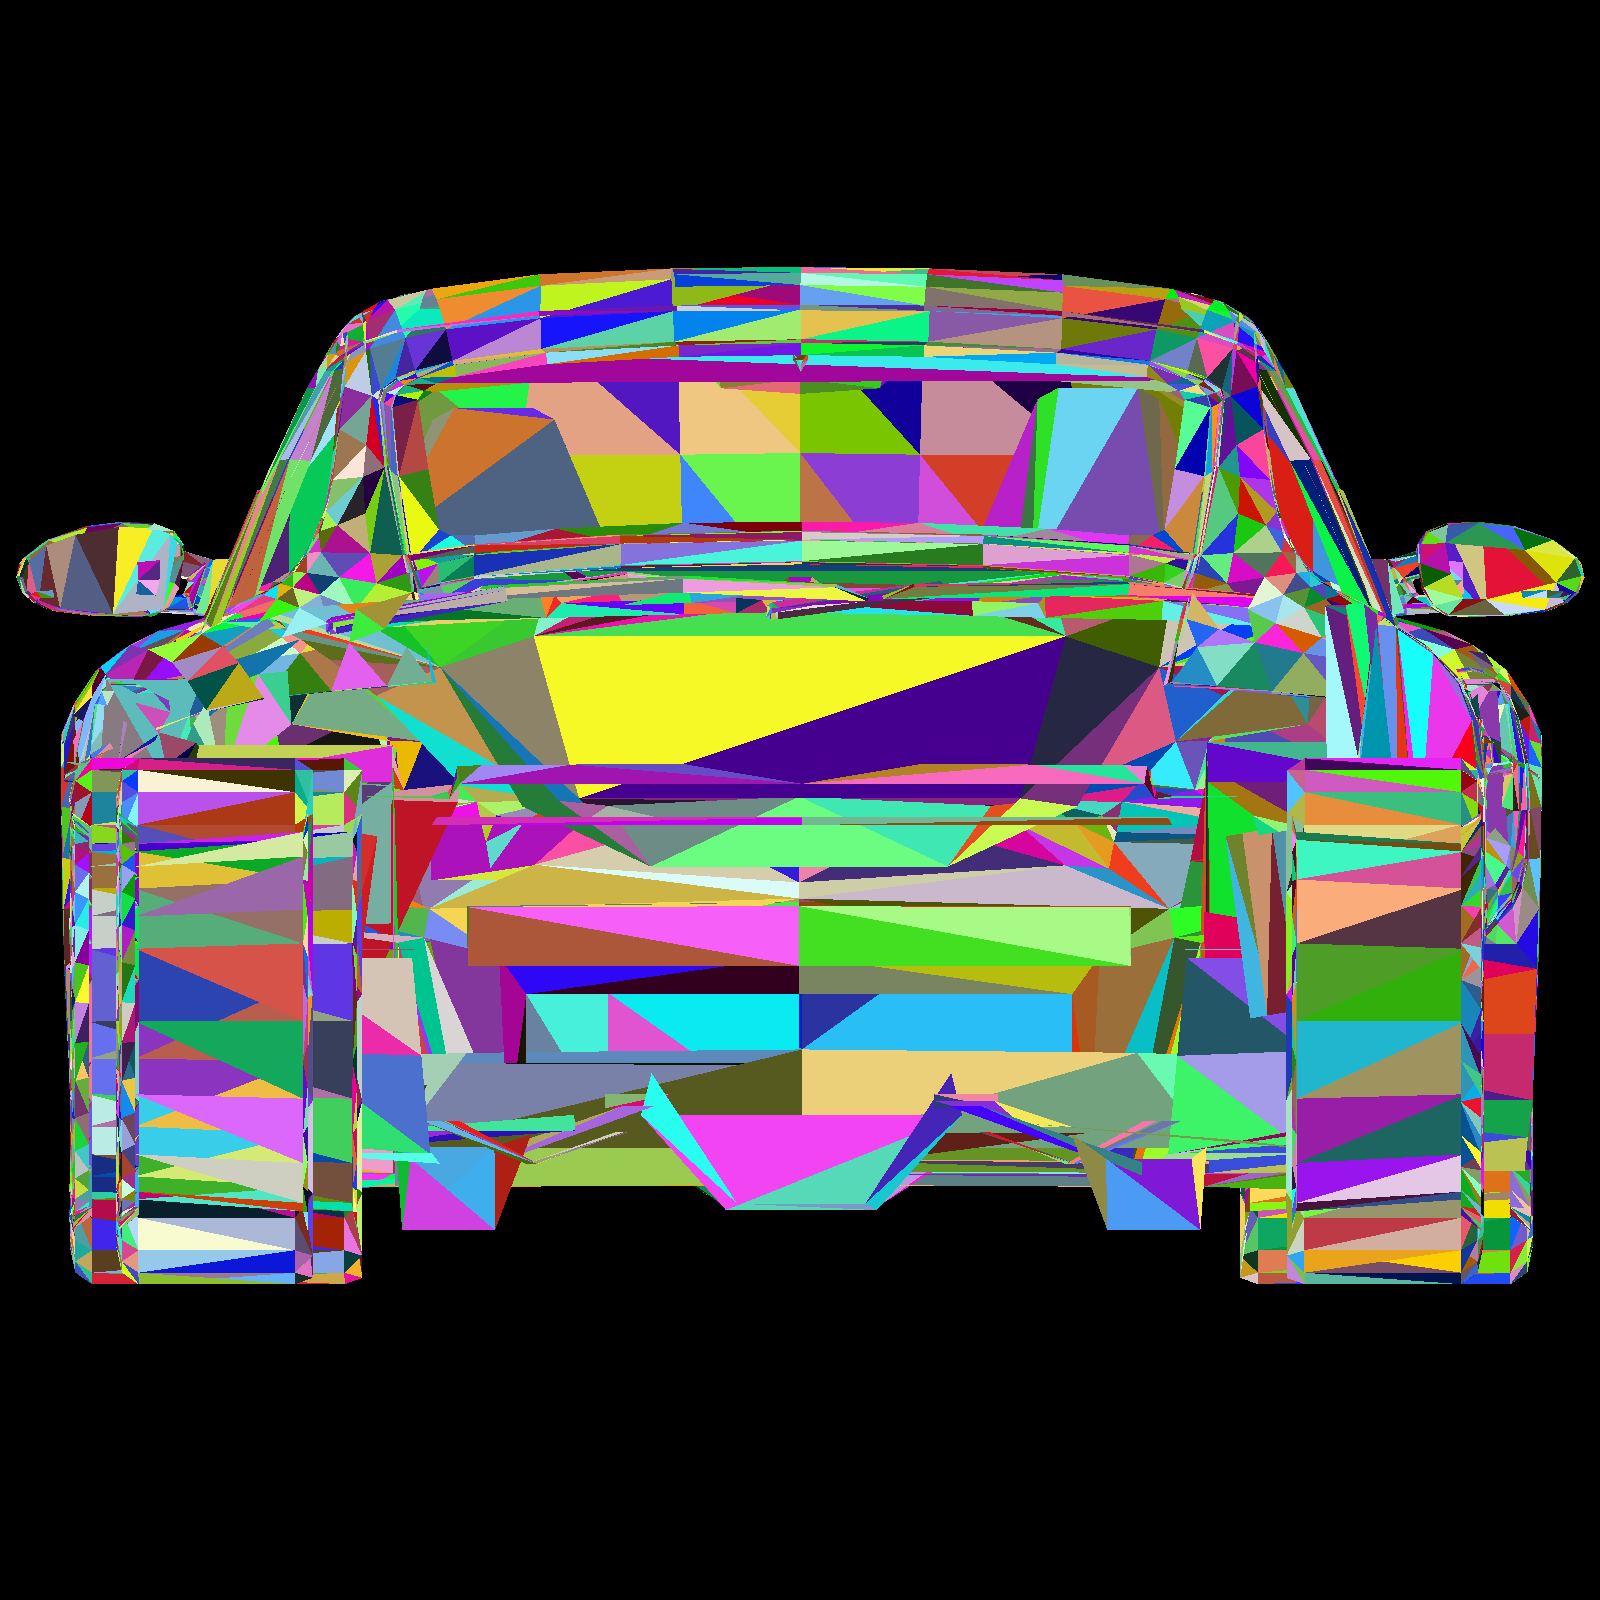
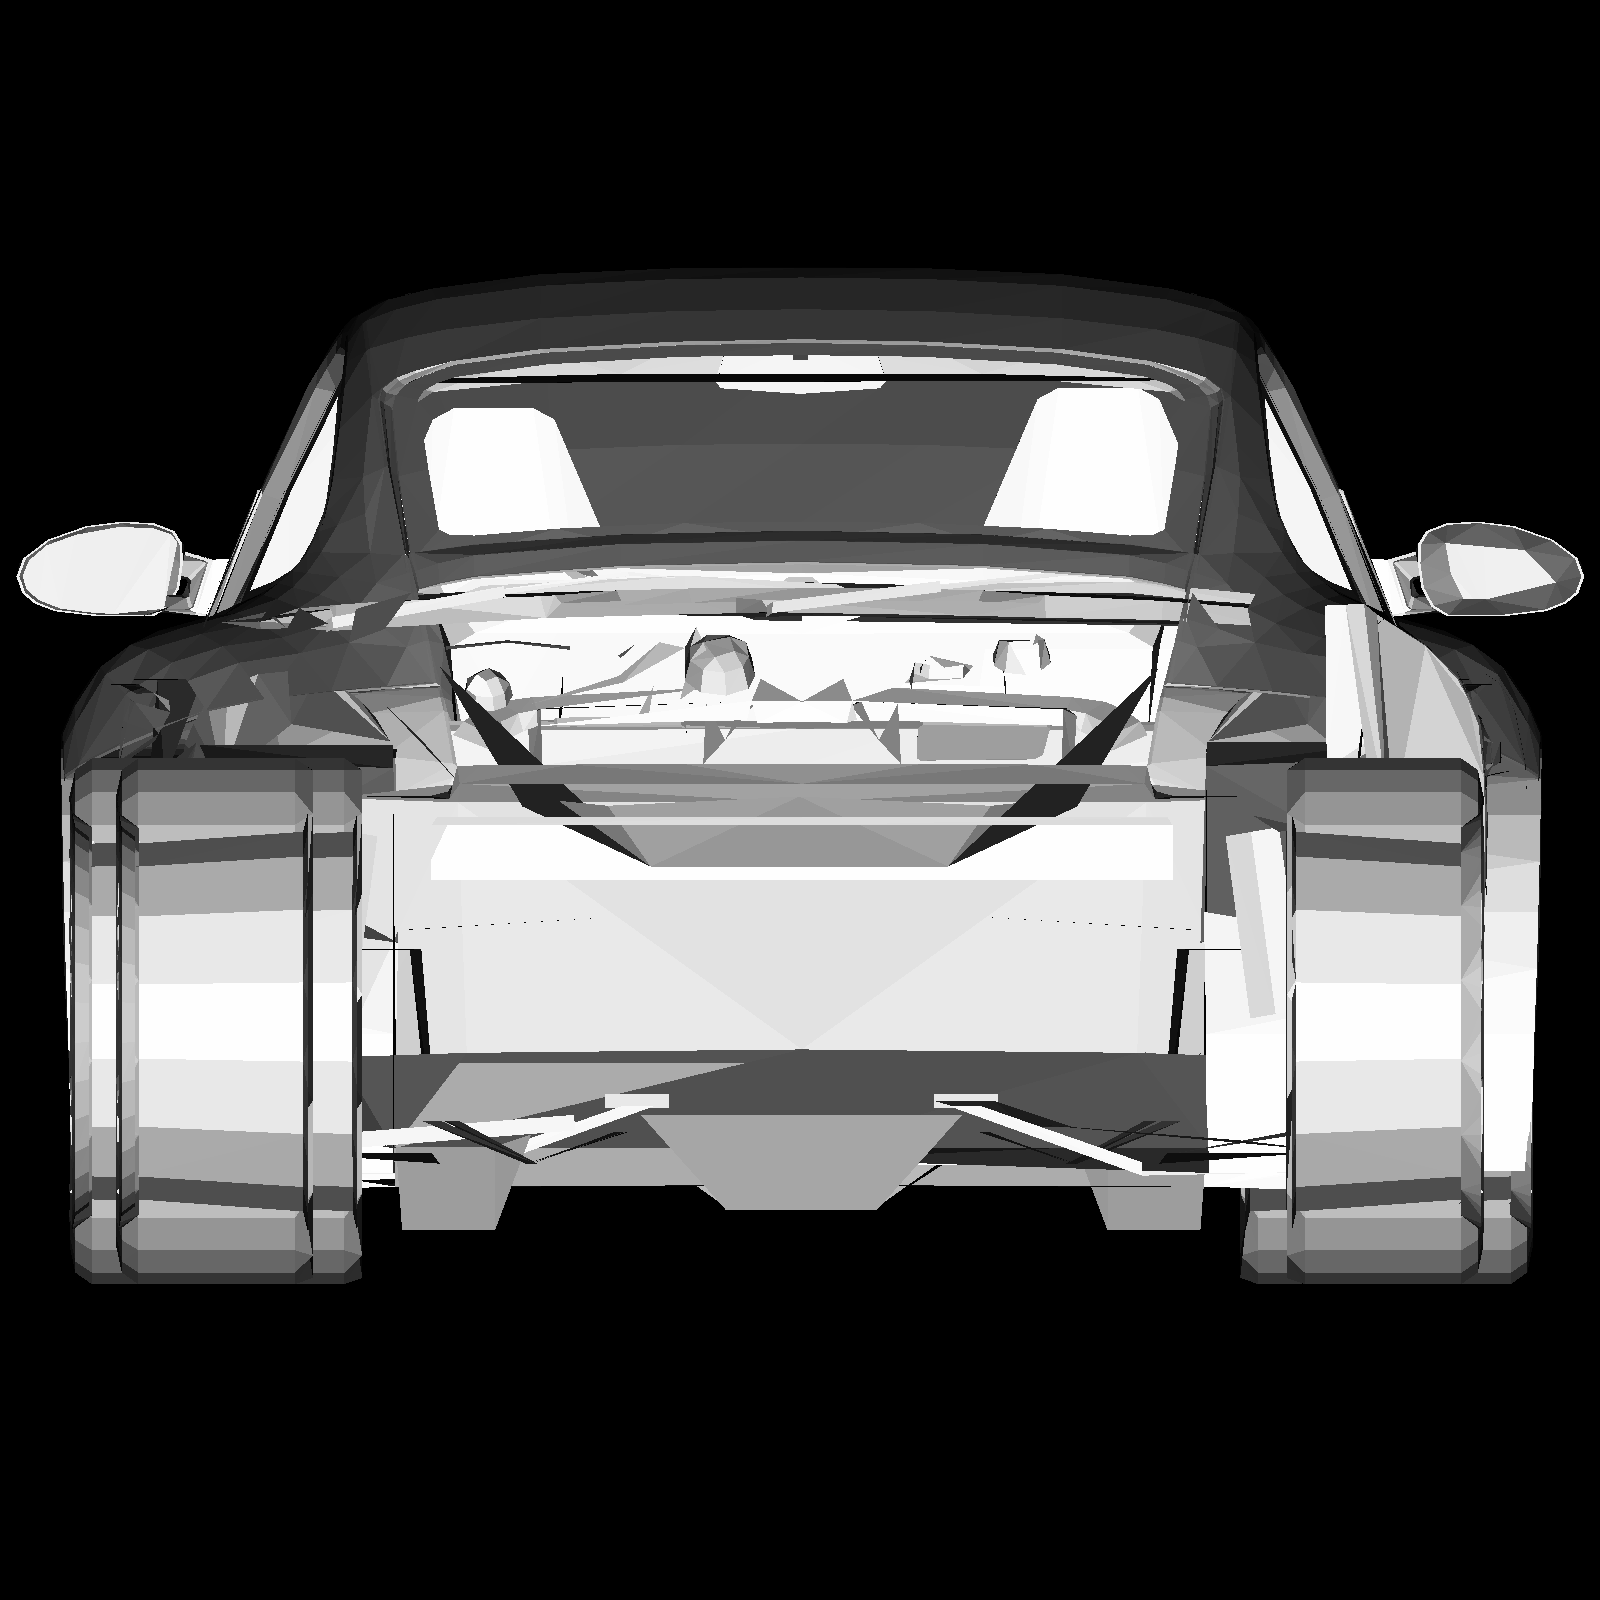
Add illuminated triangle mesh functions and screenshot

diff --git a/src/main.rs b/src/main.rs
@@ -1,13 +1,11 @@
 #![allow(dead_code)]
 extern crate image;
 extern crate nalgebra;
-extern crate rand;
 
 use std::fs::File;
 use std::mem::swap;
 use nalgebra::geometry::Point2;
 use nalgebra::core::Vector3;
-use rand::Rng;
 
 mod wavefront;
 
@@ -130,20 +128,27 @@ fn draw_wire_mesh(filename: &str, buffer: &mut image::RgbImage, width: u32, heig
     }
 }
 
-fn draw_triangle_mesh(filename: &str, buffer: &mut image::RgbImage, width: u32, height: u32) {
+fn draw_triangle_mesh(filename: &str, buffer: &mut image::RgbImage, light_vector: Vector3<f64>) {
     let coordinates = wavefront::Object::new(filename);
 
     for face in coordinates.faces {
         let mut screen_coordinates: Vec<Point2<f64>> = Vec::new();
+        let mut world_coordinates: Vec<Vector3<f64>> = Vec::new();
         for i in 0..3 {
-            let world_coordinates: Vector3<f64> = coordinates.vertices[(face[i] - 1) as usize];
+            let world_coordinate: Vector3<f64> = coordinates.vertices[(face[i] - 1) as usize];
 
-            let pointx = ((world_coordinates.x + 1.0) * width as f64 / 2.0).min(width as f64 - 1.0);
-            let pointy = ((world_coordinates.y + 1.0) * height as f64 / 2.0).min(height as f64 - 1.0);
+            let pointx = ((world_coordinate.x + 1.0) * buffer.width() as f64 / 2.0).min(buffer.width() as f64 - 1.0);
+            let pointy = ((world_coordinate.y + 1.0) * buffer.height() as f64 / 2.0).min(buffer.height() as f64 - 1.0);
+            
             screen_coordinates.push(Point2::new(pointx, pointy));
+            world_coordinates.push(world_coordinate);
         }
-        let mut rng = rand::thread_rng();
-        draw_triangle(&screen_coordinates, buffer, image::Rgb([rng.gen::<u8>() % 255, rng.gen::<u8>() % 255, rng.gen::<u8>() % 255]));
+        let normal: Vector3<f64> = (world_coordinates[2] - world_coordinates[0]).cross(&(world_coordinates[1] - world_coordinates[0])).normalize();
+        let intensity = normal.dot(&light_vector);
+
+        if intensity > 0.0 {
+            draw_triangle(&screen_coordinates, buffer, image::Rgb([(255.0 * intensity) as u8, (255.0 * intensity) as u8, (255.0 * intensity) as u8]));
+        }
     }
 }
 
@@ -151,7 +156,8 @@ fn main() {
     let (width, height) = (1600, 1600);
     let mut buffer = image::ImageBuffer::new(width, height);
 
-    draw_triangle_mesh("../porsche.obj", &mut buffer, width, height);
+    let light_vector = Vector3::new(0.0, 0.0, -1.0).normalize();
+    draw_triangle_mesh("../porsche.obj", &mut buffer, light_vector);
 
     let ref mut fout = File::create("../triangle_mesh.png").unwrap();
     image::ImageRgb8(buffer).flipv()
